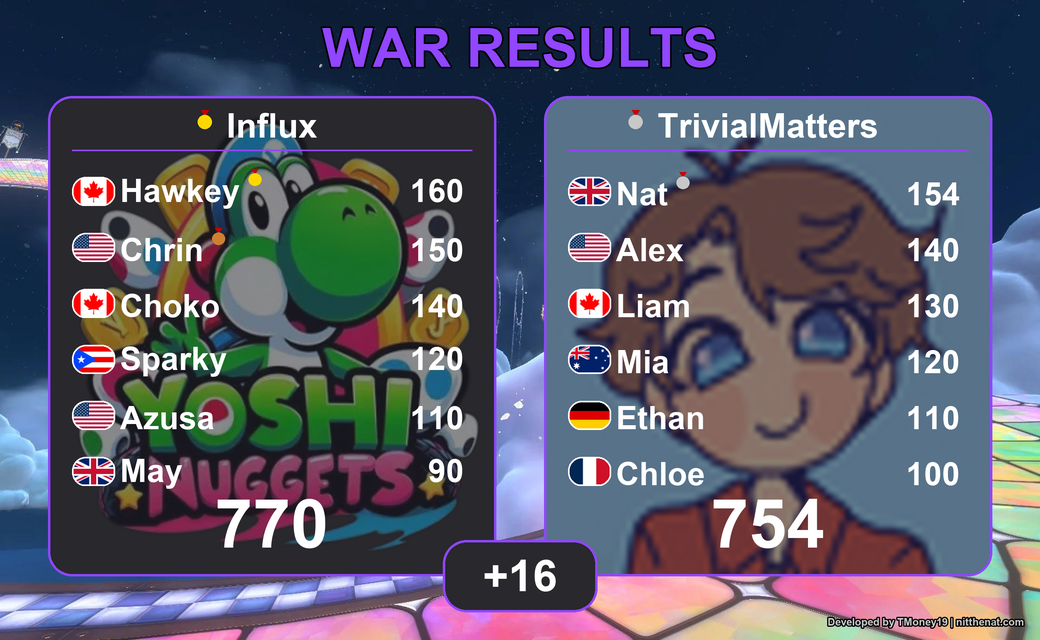
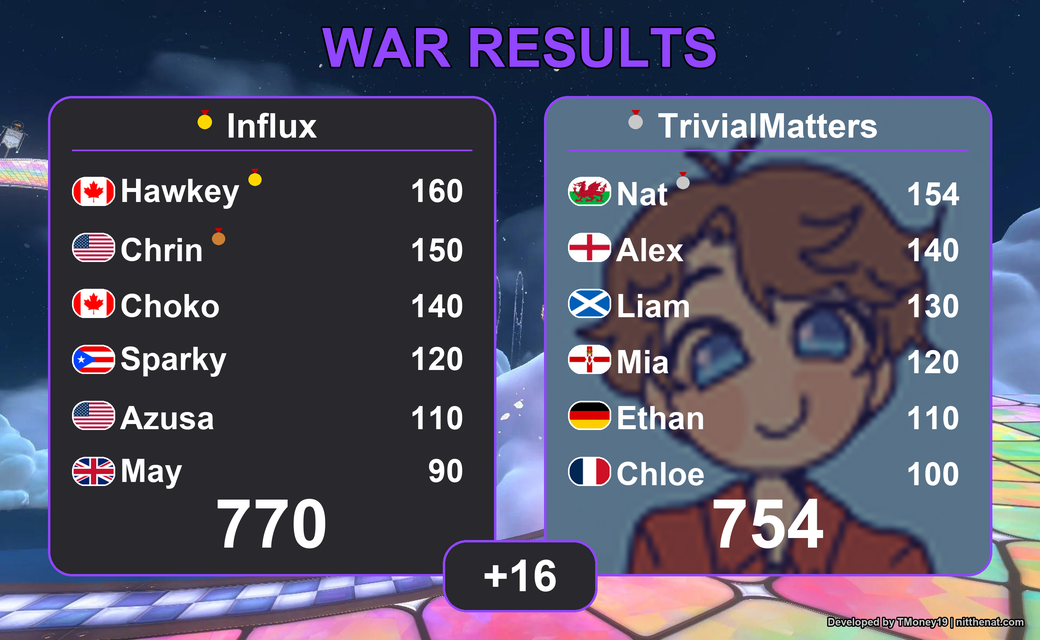
Added regional flags to uk countries

diff --git a/utilities/table_generator.py b/utilities/table_generator.py
@@ -369,10 +369,10 @@ if __name__ == "__main__":
                 "name": "TrivialMatters",
                 "icon": "https://nitthenat.com/image/profile",
                 "members": [
-                    {"name": "Nat", "country": "gb", "score": 154},
-                    {"name": "Alex", "country": "us", "score": 140},
-                    {"name": "Liam", "country": "ca", "score": 130},
-                    {"name": "Mia", "country": "au", "score": 120},
+                    {"name": "Nat", "country": "gb-wls", "score": 154},
+                    {"name": "Alex", "country": "gb-eng", "score": 140},
+                    {"name": "Liam", "country": "gb-sct", "score": 130},
+                    {"name": "Mia", "country": "gb-nir", "score": 120},
                     {"name": "Ethan", "country": "de", "score": 110},
                     {"name": "Chloe", "country": "fr", "score": 100}
                 ]

diff --git a/utilities/countires.py b/utilities/countires.py
@@ -23,7 +23,7 @@ COUNTRY_CODES = [
     "va","vc","ve","vg","vi","vn","vu",
     "wf","ws",
     "ye","yt",
-    "za","zm","zw"
+    "za","zm","zw", "gb-wls", "gb-sct", "gb-nir", "gb-eng"
 ]
 
 COUNTRY_NAMES = [
@@ -51,5 +51,5 @@ COUNTRY_NAMES = [
     "Vatican City","Saint Vincent and the Grenadines","Venezuela","British Virgin Islands","U.S. Virgin Islands","Vietnam","Vanuatu",
     "Wallis and Futuna","Samoa",
     "Yemen","Mayotte",
-    "South Africa","Zambia","Zimbabwe"
+    "South Africa","Zambia","Zimbabwe", "Wales", "Scotland", "Northern Ireland", "England"
 ]
